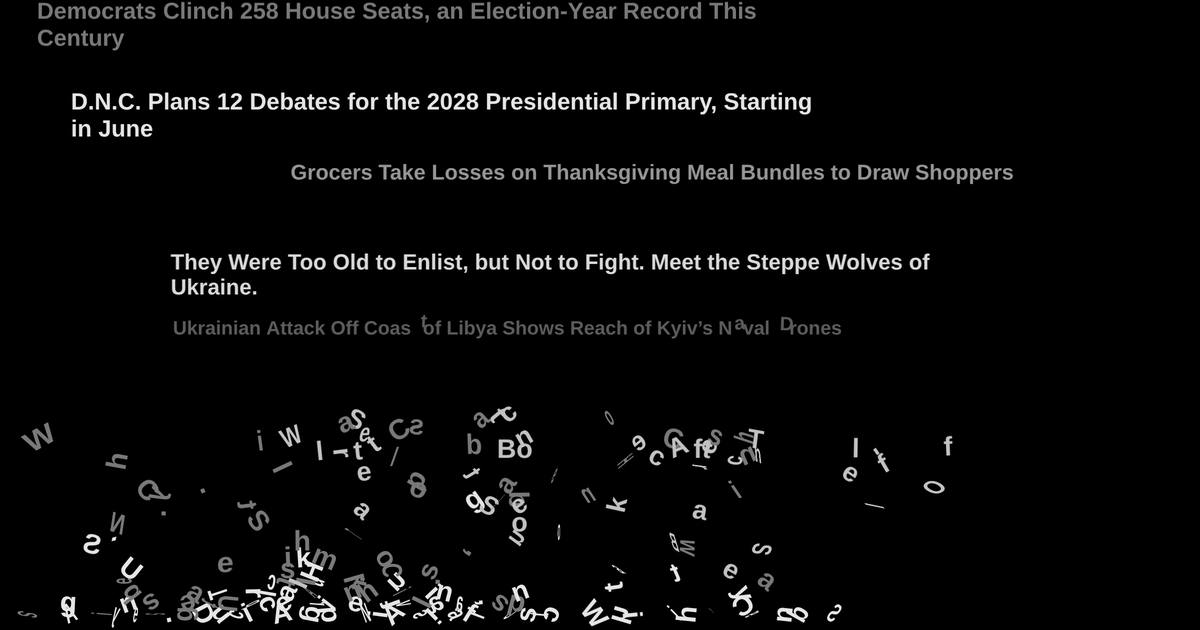
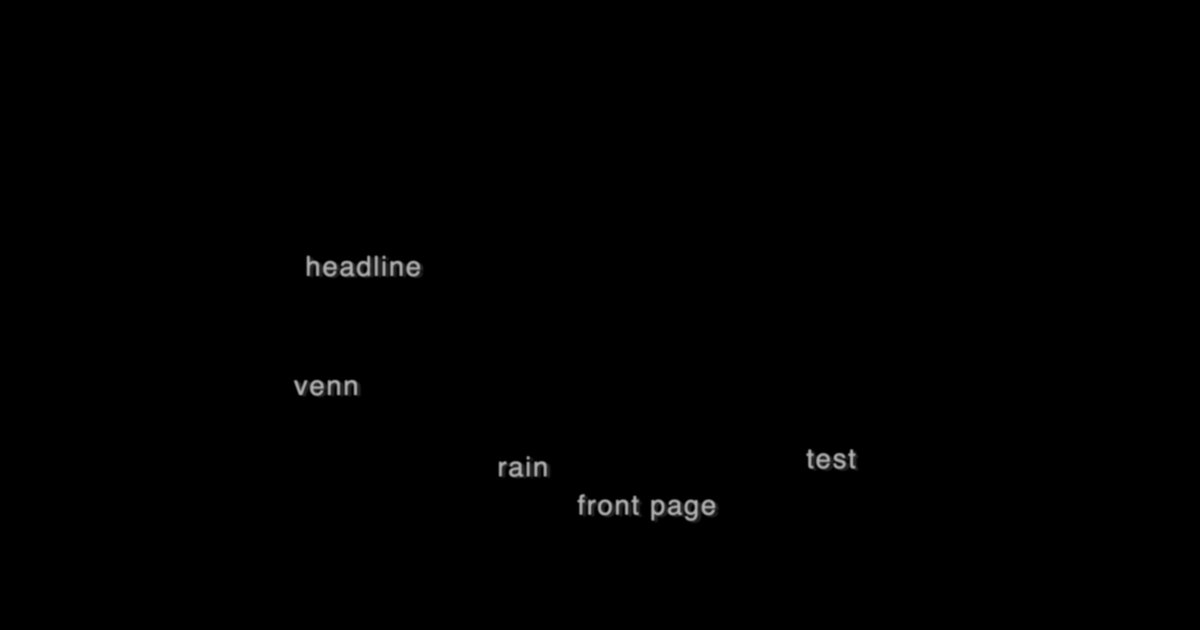
Link previews: each piece shows its own capture when shared
Claude-Session: https://claude.ai/code/session_01Q7GdBN6zYQ4V8mS6r4ZDqe

diff --git a/index.html b/index.html
@@ -6,11 +6,11 @@
 <title></title>
 <meta property="og:type" content="website">
 <meta property="og:url" content="https://poststudio.org/">
-<meta property="og:image" content="https://poststudio.org/og.jpg">
+<meta property="og:image" content="https://poststudio.org/og.jpg?v=2">
 <meta property="og:image:width" content="1200">
 <meta property="og:image:height" content="630">
 <meta name="twitter:card" content="summary_large_image">
-<meta name="twitter:image" content="https://poststudio.org/og.jpg">
+<meta name="twitter:image" content="https://poststudio.org/og.jpg?v=2">
 <style>
 html, body { margin: 0; height: 100%; overflow: hidden; background: #000; }
 a.word { position: absolute; left: 0; top: 0; font-family: Helvetica, Arial, sans-serif; font-size: 16px; letter-spacing: 0.06em; color: #b4b4b4; text-decoration: none; filter: blur(0.45px); text-shadow: 2px 1px 1px rgba(255, 255, 255, 0.14); transition: filter 0.9s, color 0.9s, text-shadow 0.9s; will-change: transform; }

diff --git a/frontpage4/index.html b/frontpage4/index.html
@@ -3,6 +3,13 @@
 <head>
 <meta charset="utf-8">
 <meta name="viewport" content="width=device-width, initial-scale=1">
+<meta property="og:type" content="website">
+<meta property="og:url" content="https://poststudio.org/frontpage4/">
+<meta property="og:image" content="https://poststudio.org/frontpage4/og.jpg?v=1">
+<meta property="og:image:width" content="1200">
+<meta property="og:image:height" content="630">
+<meta name="twitter:card" content="summary_large_image">
+<meta name="twitter:image" content="https://poststudio.org/frontpage4/og.jpg?v=1">
 <title></title>
 <style>
 html, body { margin: 0; height: 100%; overflow: hidden; background: #fff; touch-action: none; -webkit-user-select: none; user-select: none; }

diff --git a/venn5/index.html b/venn5/index.html
@@ -3,6 +3,13 @@
 <head>
 <meta charset="utf-8">
 <meta name="viewport" content="width=device-width, initial-scale=1">
+<meta property="og:type" content="website">
+<meta property="og:url" content="https://poststudio.org/venn5/">
+<meta property="og:image" content="https://poststudio.org/venn5/og.jpg?v=1">
+<meta property="og:image:width" content="1200">
+<meta property="og:image:height" content="630">
+<meta name="twitter:card" content="summary_large_image">
+<meta name="twitter:image" content="https://poststudio.org/venn5/og.jpg?v=1">
 <title></title>
 <style>
 html, body { margin: 0; height: 100%; overflow: hidden; background: #000; touch-action: manipulation; }

diff --git a/rain/index.html b/rain/index.html
@@ -3,6 +3,13 @@
 <head>
 <meta charset="utf-8">
 <meta name="viewport" content="width=device-width, initial-scale=1">
+<meta property="og:type" content="website">
+<meta property="og:url" content="https://poststudio.org/rain/">
+<meta property="og:image" content="https://poststudio.org/rain/og.jpg?v=1">
+<meta property="og:image:width" content="1200">
+<meta property="og:image:height" content="630">
+<meta name="twitter:card" content="summary_large_image">
+<meta name="twitter:image" content="https://poststudio.org/rain/og.jpg?v=1">
 <title></title>
 <style>
 html, body { margin: 0; height: 100%; overflow: hidden; background: #000; }
